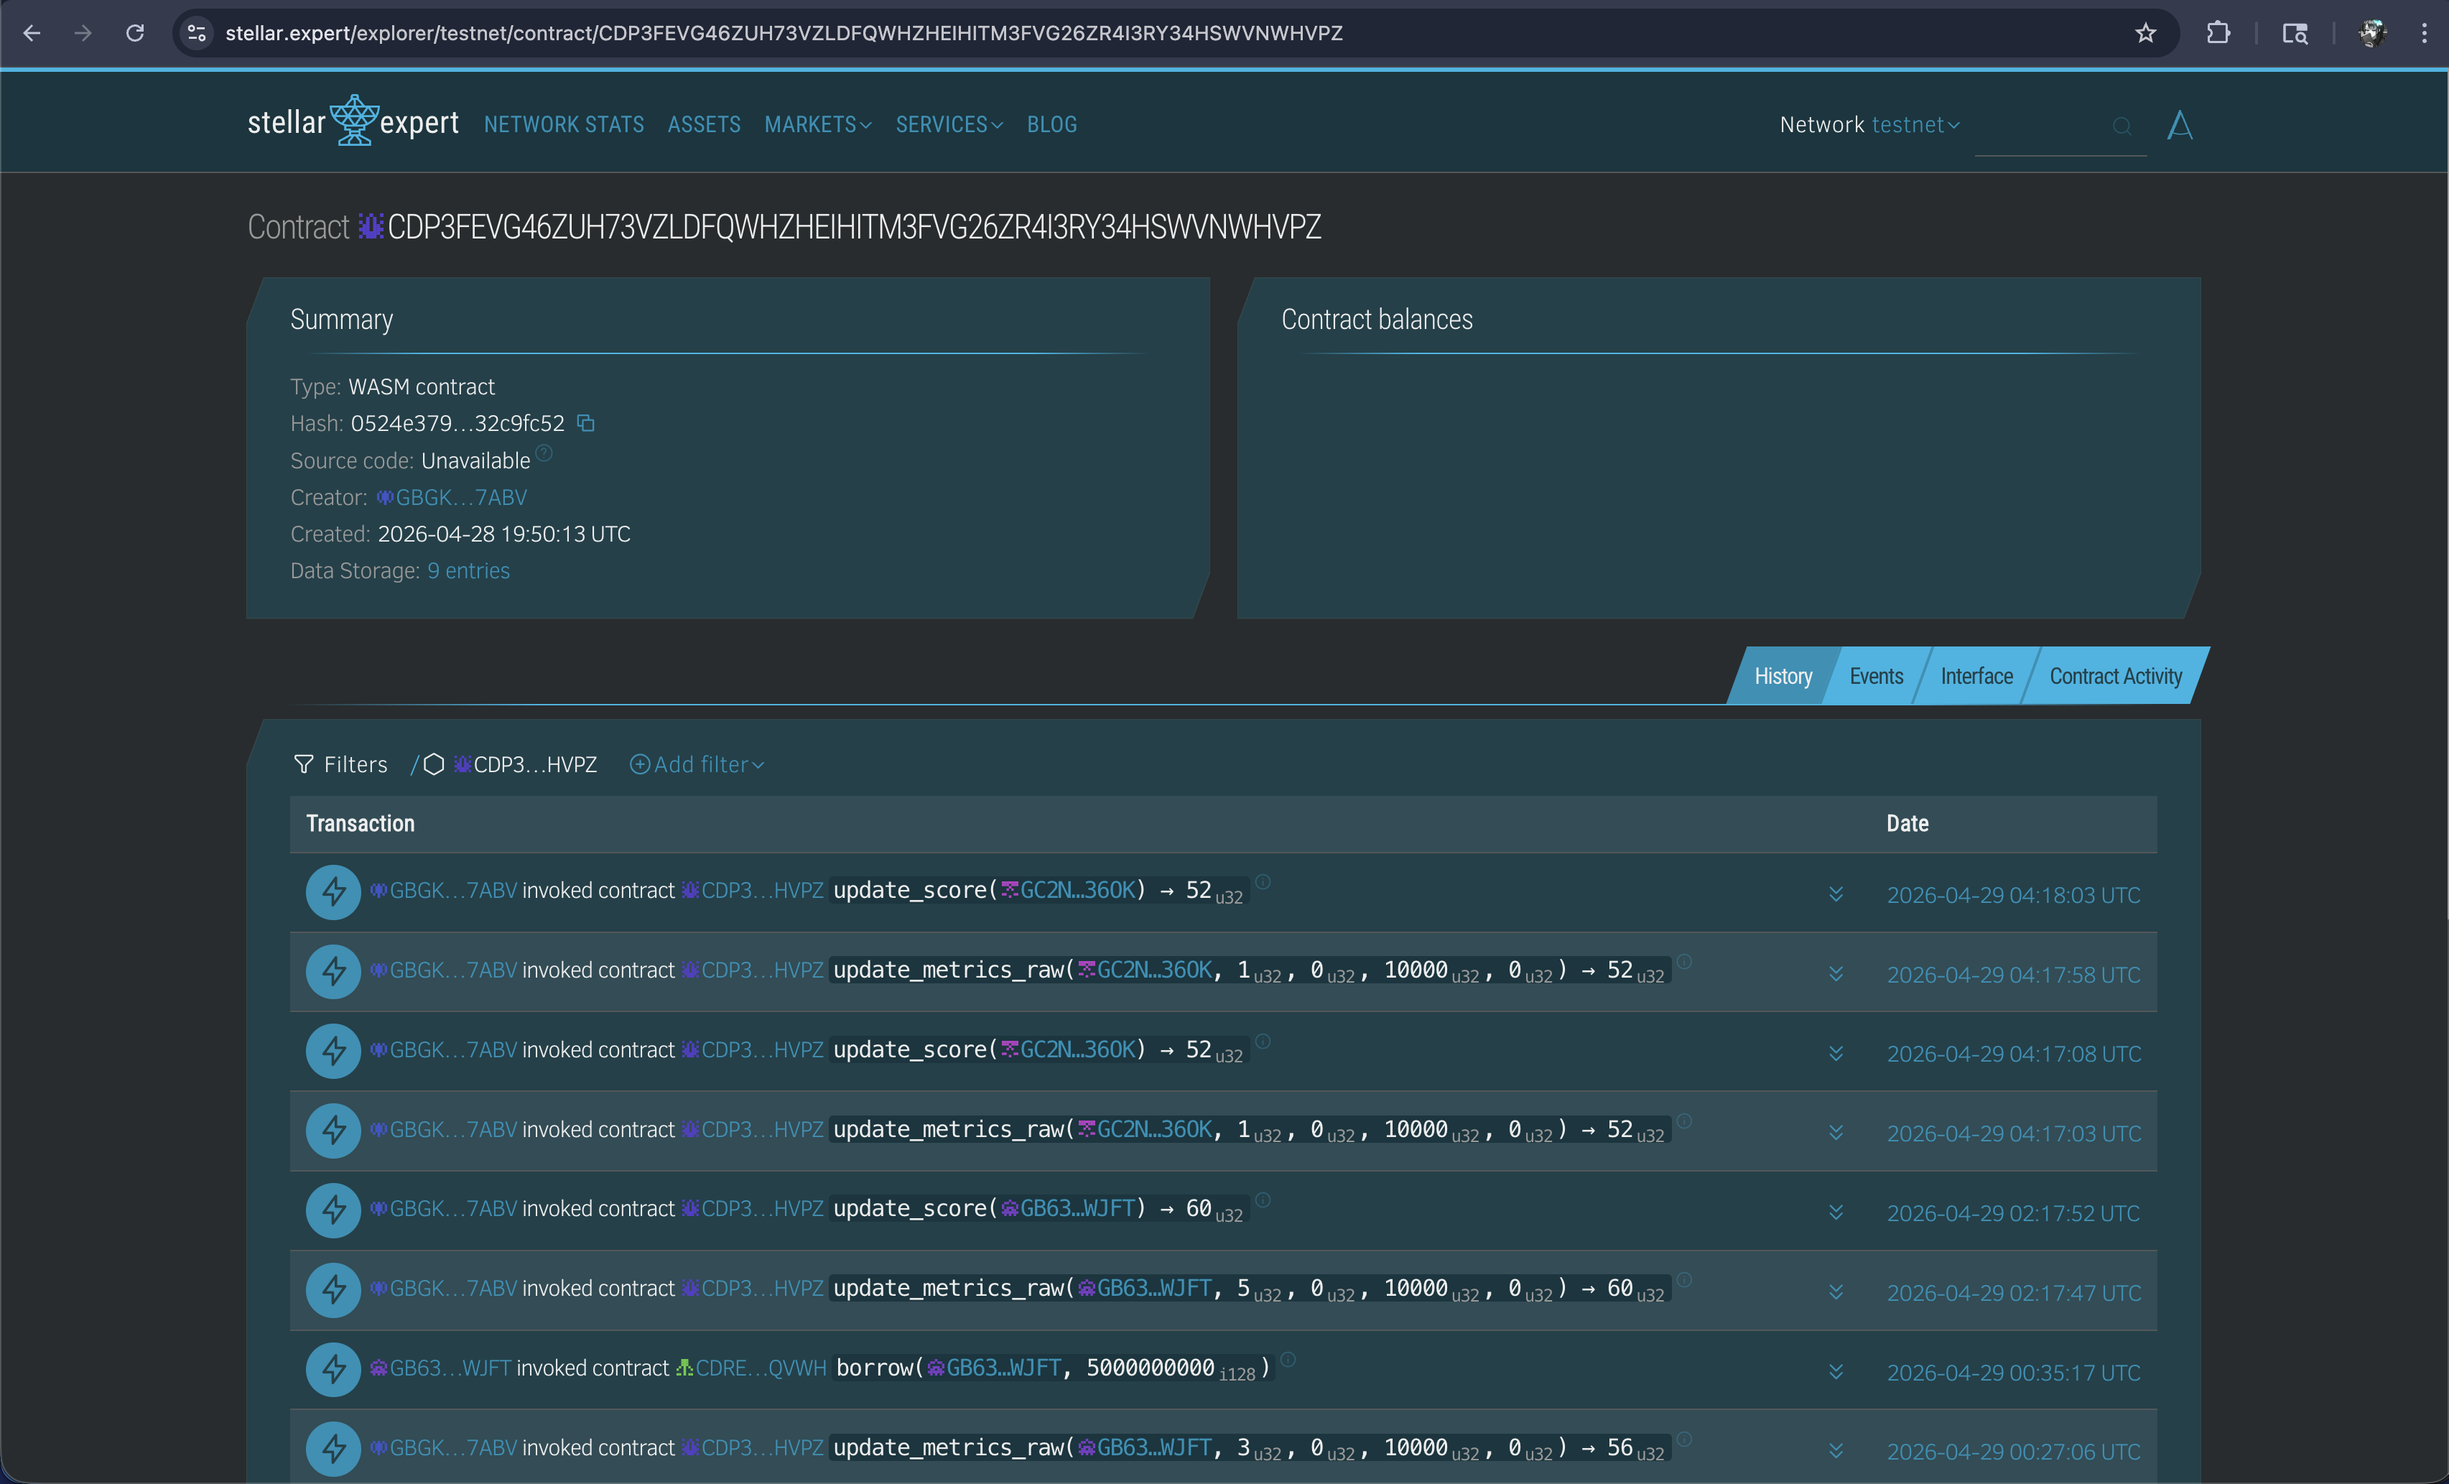
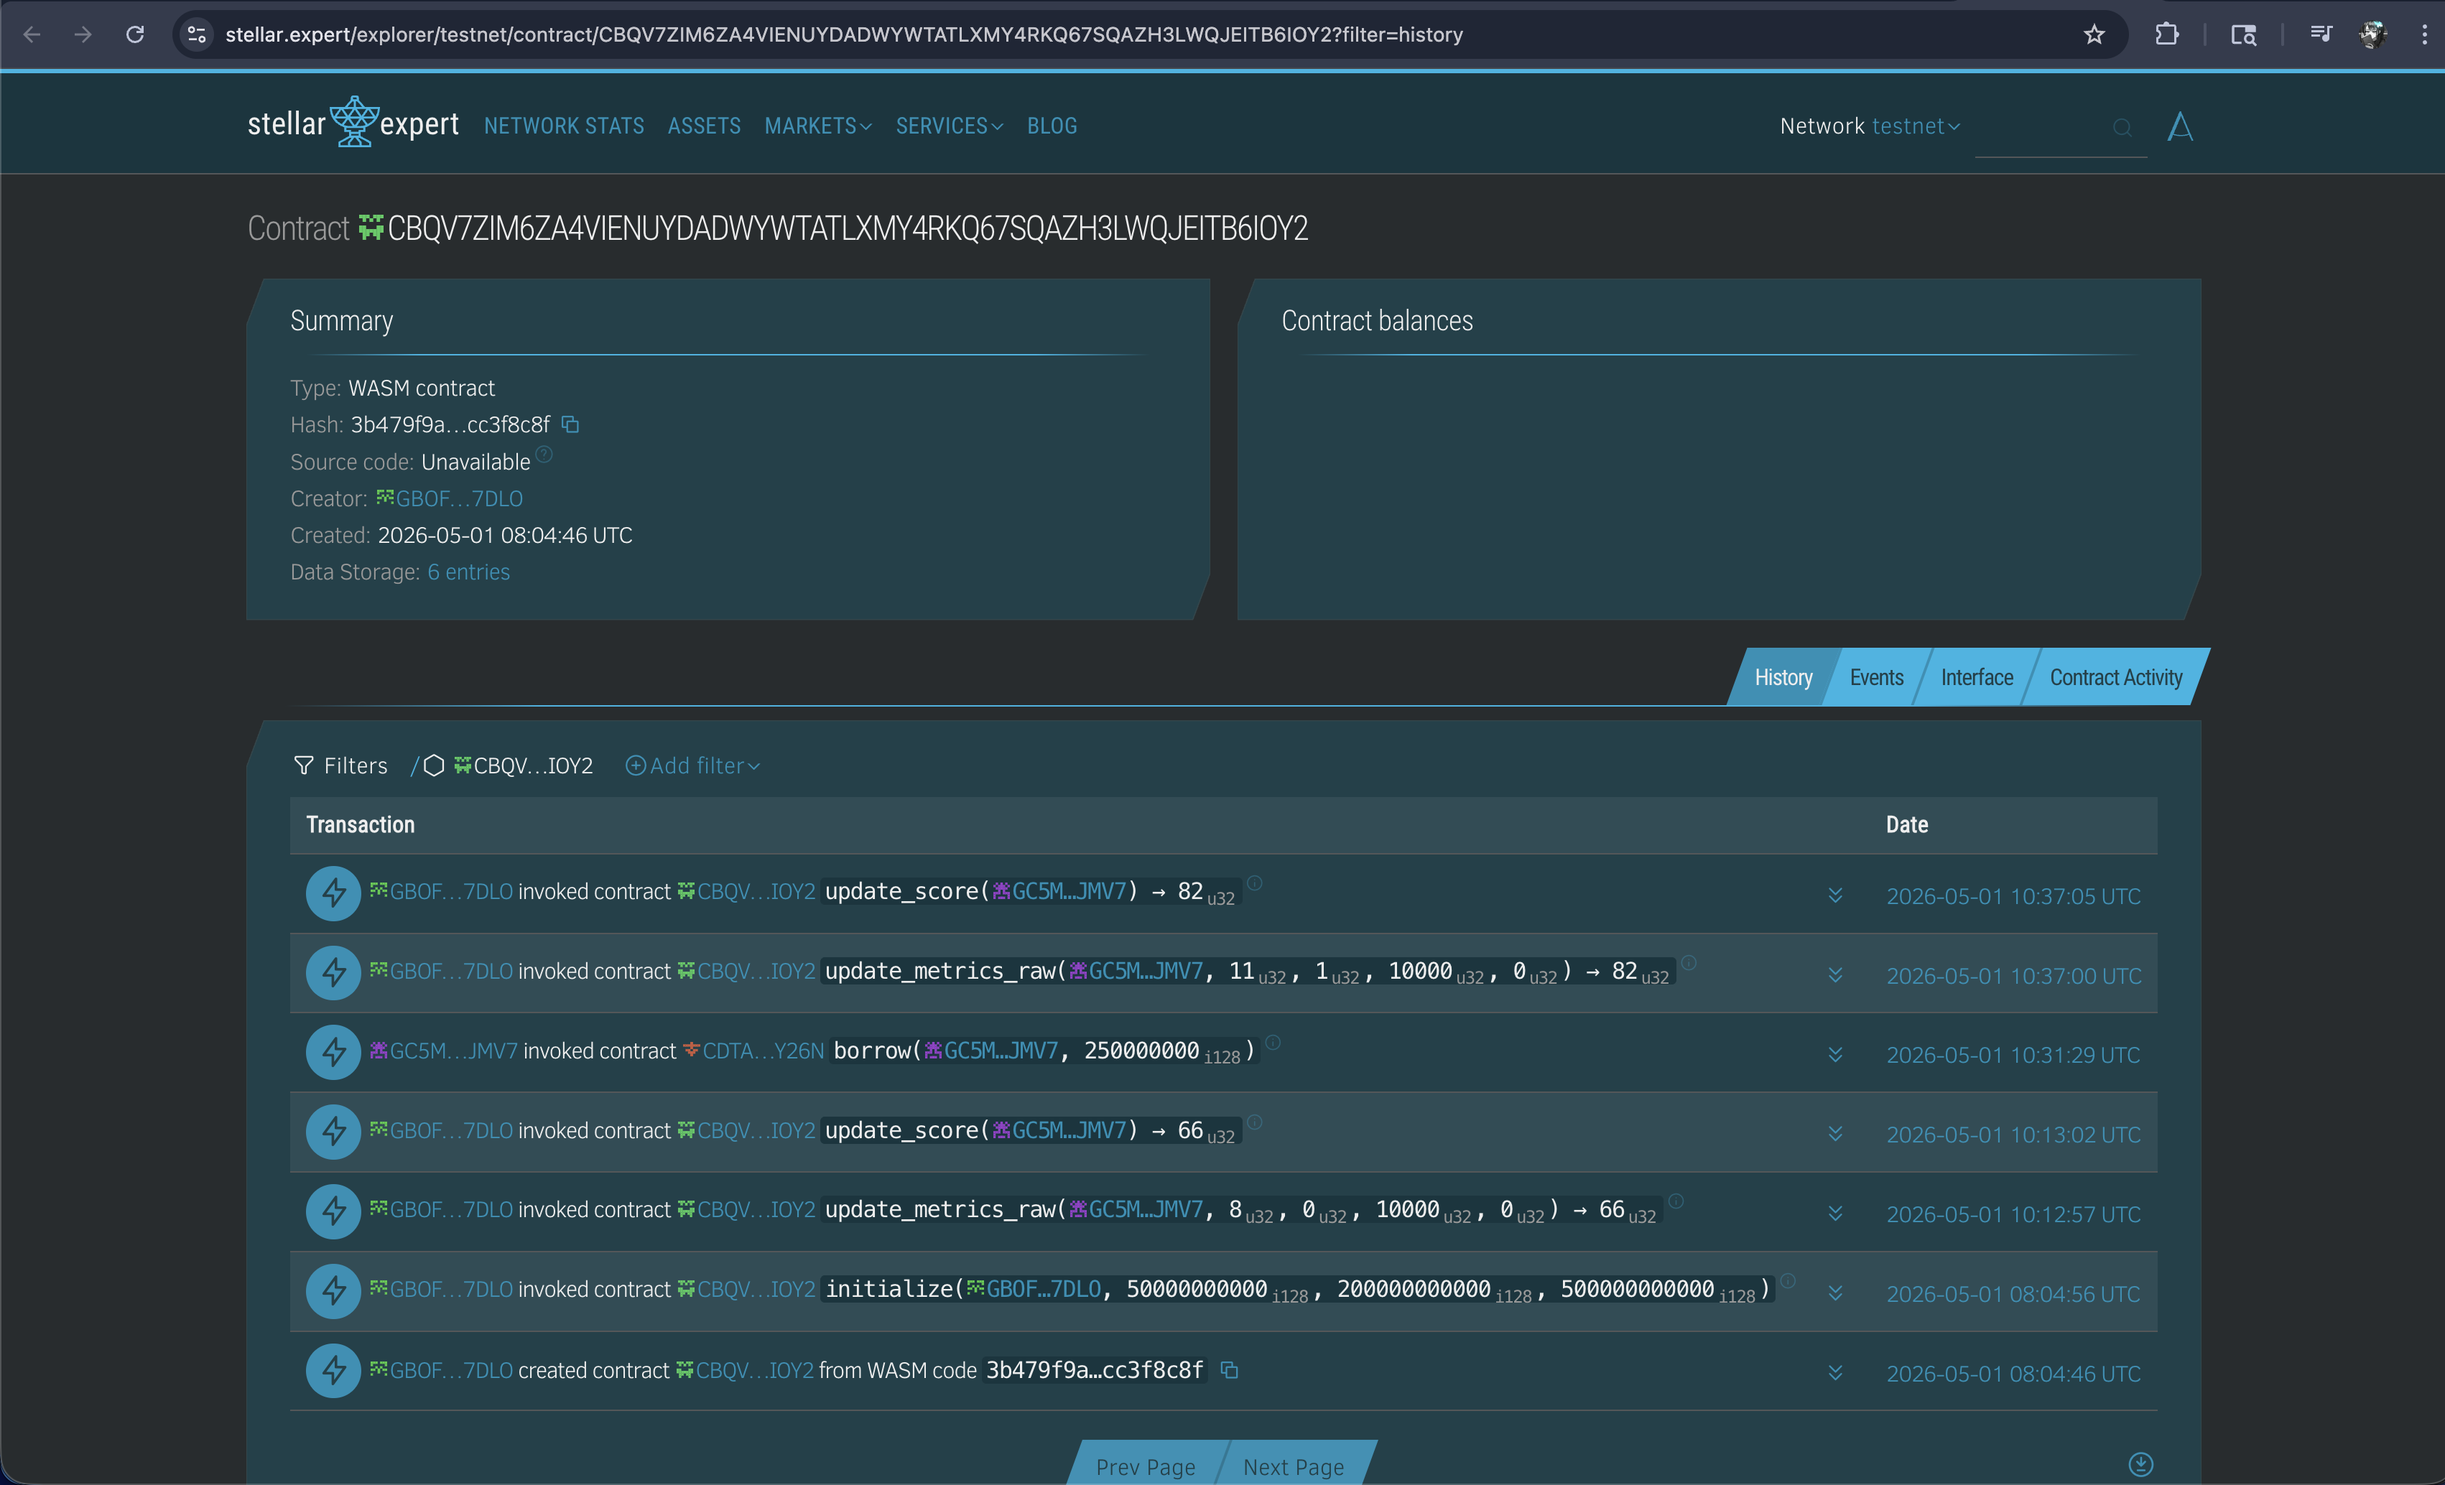
chore: update docs

diff --git a/README.md b/README.md
@@ -6,11 +6,11 @@ Transparent on-chain credit scores and instant micro-loans for the Filipino unba
 
 🔗 **[Live Demo → kredito-iota.vercel.app](https://kredito-iota.vercel.app)**
 
-🔭 **[Credit Registry on Stellar Expert](https://stellar.expert/explorer/testnet/contract/CBFTO4553DTNZWAQ2QEXWHITKQEESDOXXYOMLMOLPIRI22G3255YISLS?filter=interface)**
+🔭 **[Credit Registry on Stellar Expert](https://stellar.expert/explorer/testnet/contract/CBQV7ZIM6ZA4VIENUYDADWYWTATLXMY4RKQ67SQAZH3LWQJEITB6IOY2?filter=interface)**
 
-🔭 **[Lending Pool on Stellar Expert](https://stellar.expert/explorer/testnet/contract/CBNOPIQWQYCJG544YAK7SADN4IWWMW4I6Q5JZRZ2JOC2YRCBL35EDDL6?filter=interface)**
+🔭 **[Lending Pool on Stellar Expert](https://stellar.expert/explorer/testnet/contract/CDTASHYWGEEM7I4Z4QCQSZKZOY3KMID32RBZDTA3VOUXFWE4YXWFY26N?filter=interface)**
 
-🔭 **[PHPC Token on Stellar Expert](https://stellar.expert/explorer/testnet/contract/CAVNTCGGVAZPHS6UMJTVZIDYK3TABJAV2RKNVGWRHJ7BHHUJCG6IJYTE?filter=interface)**
+🔭 **[PHPC Token on Stellar Expert](https://stellar.expert/explorer/testnet/contract/CAMZB75TSS7IP7O7BTGQJVLBBPRIA3STHWPF4UUVZ5L3B5Z7J7A7T4E7?filter=interface)**
 
 > **SEA Stellar Hackathon · Track: Payments & Financial Access**
 
@@ -81,17 +81,17 @@ kredito/
 
 Deployed and verified on Stellar testnet:
 
-- **`credit_registry`**: `CBFTO4553DTNZWAQ2QEXWHITKQEESDOXXYOMLMOLPIRI22G3255YISLS`
-- **`lending_pool`**: `CBNOPIQWQYCJG544YAK7SADN4IWWMW4I6Q5JZRZ2JOC2YRCBL35EDDL6`
-- **`phpc_token`**: `CAVNTCGGVAZPHS6UMJTVZIDYK3TABJAV2RKNVGWRHJ7BHHUJCG6IJYTE`
+- **`credit_registry`**: `CBQV7ZIM6ZA4VIENUYDADWYWTATLXMY4RKQ67SQAZH3LWQJEITB6IOY2`
+- **`lending_pool`**: `CDTASHYWGEEM7I4Z4QCQSZKZOY3KMID32RBZDTA3VOUXFWE4YXWFY26N`
+- **`phpc_token`**: `CAMZB75TSS7IP7O7BTGQJVLBBPRIA3STHWPF4UUVZ5L3B5Z7J7A7T4E7`
 
-Explorer Link: https://stellar.expert/explorer/testnet/contract/CBFTO4553DTNZWAQ2QEXWHITKQEESDOXXYOMLMOLPIRI22G3255YISLS?filter=interface
+Explorer Link: https://stellar.expert/explorer/testnet/contract/CBQV7ZIM6ZA4VIENUYDADWYWTATLXMY4RKQ67SQAZH3LWQJEITB6IOY2?filter=interface
 ![Credit Registry Explorer](./images/img1.png)
 
-Explorer Link: https://stellar.expert/explorer/testnet/contract/CBNOPIQWQYCJG544YAK7SADN4IWWMW4I6Q5JZRZ2JOC2YRCBL35EDDL6?filter=interface
+Explorer Link: https://stellar.expert/explorer/testnet/contract/CDTASHYWGEEM7I4Z4QCQSZKZOY3KMID32RBZDTA3VOUXFWE4YXWFY26N?filter=interface
 ![Lending Pool Explorer](./images/img2.png)
 
-Explorer Link: https://stellar.expert/explorer/testnet/contract/CAVNTCGGVAZPHS6UMJTVZIDYK3TABJAV2RKNVGWRHJ7BHHUJCG6IJYTE?filter=interface
+Explorer Link: https://stellar.expert/explorer/testnet/contract/CAMZB75TSS7IP7O7BTGQJVLBBPRIA3STHWPF4UUVZ5L3B5Z7J7A7T4E7?filter=interface
 ![PHPC Token Explorer](./images/img3.png)
 
 ## Contract Functions

diff --git a/docs/DEMO.md b/docs/DEMO.md
@@ -13,6 +13,7 @@ This runbook outlines the steps for a live demonstration of the Kredito platform
 ## 2. Step-by-Step Flow
 
 ### Step 1: Secure Wallet Sign-in
+
 1. Navigate to the Kredito homepage (`http://localhost:3000`).
 2. Click **Connect Freighter Wallet**.
 3. Approve the connection request in Freighter.
@@ -20,6 +21,7 @@ This runbook outlines the steps for a live demonstration of the Kredito platform
 5. You should be redirected to the **Dashboard**.
 
 ### Step 2: Establish Credit Identity (Initial Scoring)
+
 1. On the Dashboard, you'll see "Unrated" or a low score if it's a new wallet.
 2. Click **Refresh Score** (or **Calculate Score**).
 3. The backend will sweep the last 10,000 ledgers for your address history (payments, XLM balance, age).
@@ -27,6 +29,7 @@ This runbook outlines the steps for a live demonstration of the Kredito platform
 5. The Dashboard should now display your **Credit Passport** with a Tier (e.g., Bronze, Silver, Gold) and a Borrow Limit.
 
 ### Step 3: Borrow from the Pool
+
 1. Click **Borrow Funds** in the sidebar or from the dashboard card.
 2. Review the loan terms:
    - 30-day fixed term.
@@ -39,11 +42,14 @@ This runbook outlines the steps for a live demonstration of the Kredito platform
 7. **Success!** Particles will appear, and you can view the transaction on Stellar Expert. Your wallet now contains the borrowed PHPC.
 
 ### Step 4: Top-up for Repayment (Demo Tip)
-*Note: Since Kredito is a pure micro-loan flow, you only received the principal. To repay, you need `principal + fee`.*
+
+_Note: Since Kredito is a pure micro-loan flow, you only received the principal. To repay, you need `principal + fee`._
+
 1. Explain that for the demo, we need a few extra PHPC to cover the interest/fee.
 2. Use the "issuer" or a script to send a small amount of PHPC to the demo wallet, or explain that in a real-world scenario, the user would already have some balance or top up via an anchor.
 
 ### Step 5: Repay and Level Up
+
 1. Navigate to the **Repay** page.
 2. You will see your active loan details and the due date.
 3. Click **Repay Loan**.

diff --git a/docs/TESTING.md b/docs/TESTING.md
@@ -7,12 +7,14 @@ This document describes how to verify the correctness of the Kredito system at a
 The contracts use the standard Soroban testing framework with snapshots.
 
 ### Run all tests
+
 ```bash
 cd contracts
 cargo test --workspace
 ```
 
 ### Key Test Files
+
 - `contracts/credit_registry/src/test.rs`: Verifies scoring formulas, tier thresholds, and authorized metric updates.
 - `contracts/lending_pool/src/test.rs`: Verifies borrow/repay logic, interest calculations, and liquidity management.
 - `contracts/phpc_token/src/test.rs`: Verifies SEP-41 compliance and basic token flows.
@@ -24,13 +26,16 @@ cargo test --workspace
 The backend uses Vitest for unit and integration tests, mocking Stellar network calls where appropriate.
 
 ### Run all tests
+
 ```bash
 cd backend
 pnpm test
 ```
 
 ### Manual API Verification
+
 You can test the admin-only "default check" trigger (requires `ADMIN_API_SECRET`):
+
 ```bash
 curl -X GET http://localhost:3001/api/admin/check-defaults \
   -H "Authorization: Bearer <your_admin_secret>"
@@ -43,13 +48,16 @@ curl -X GET http://localhost:3001/api/admin/check-defaults \
 We use Next.js built-in linting and TypeScript for static analysis.
 
 ### Type Check & Lint
+
 ```bash
 cd frontend
 pnpm lint
 ```
 
 ### Build Verification
+
 Always verify that the production build succeeds, as this catches CSP and SSR issues:
+
 ```bash
 cd frontend
 pnpm build

diff --git a/docs/ARCHITECTURE.md b/docs/ARCHITECTURE.md
@@ -26,7 +26,7 @@ In the `credit_registry` smart contract, the metric for balance is named `avg_ba
 
 ## CORS And Auth
 
-The backend CORS configuration is driven by `CORS_ORIGINS` and remains a strict allowlist in production. 
+The backend CORS configuration is driven by `CORS_ORIGINS` and remains a strict allowlist in production.
 
 ### CSRF Protection
 
